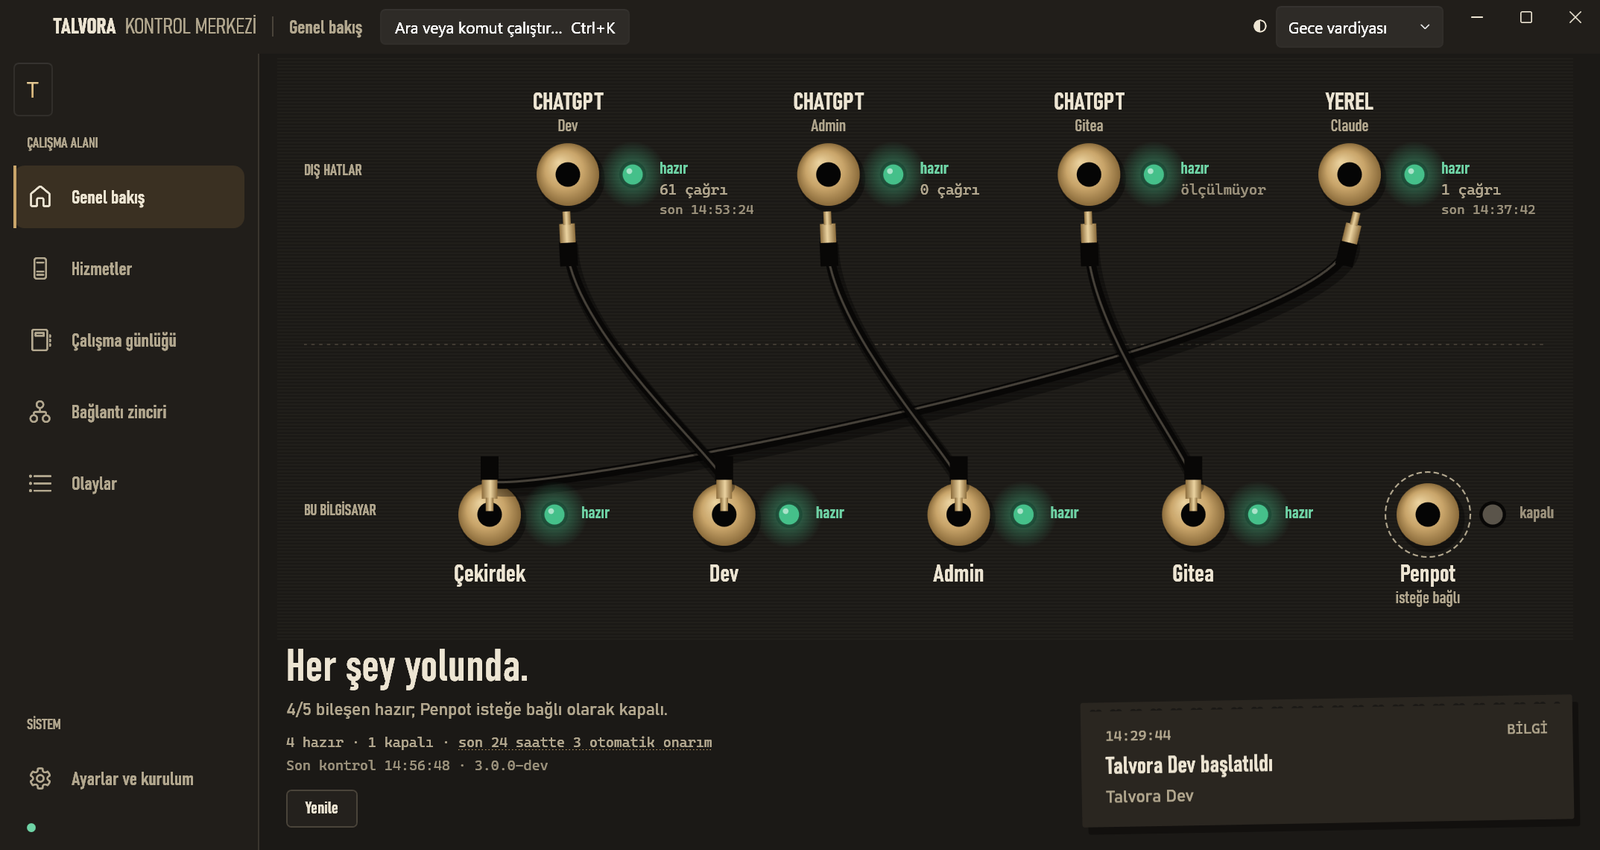
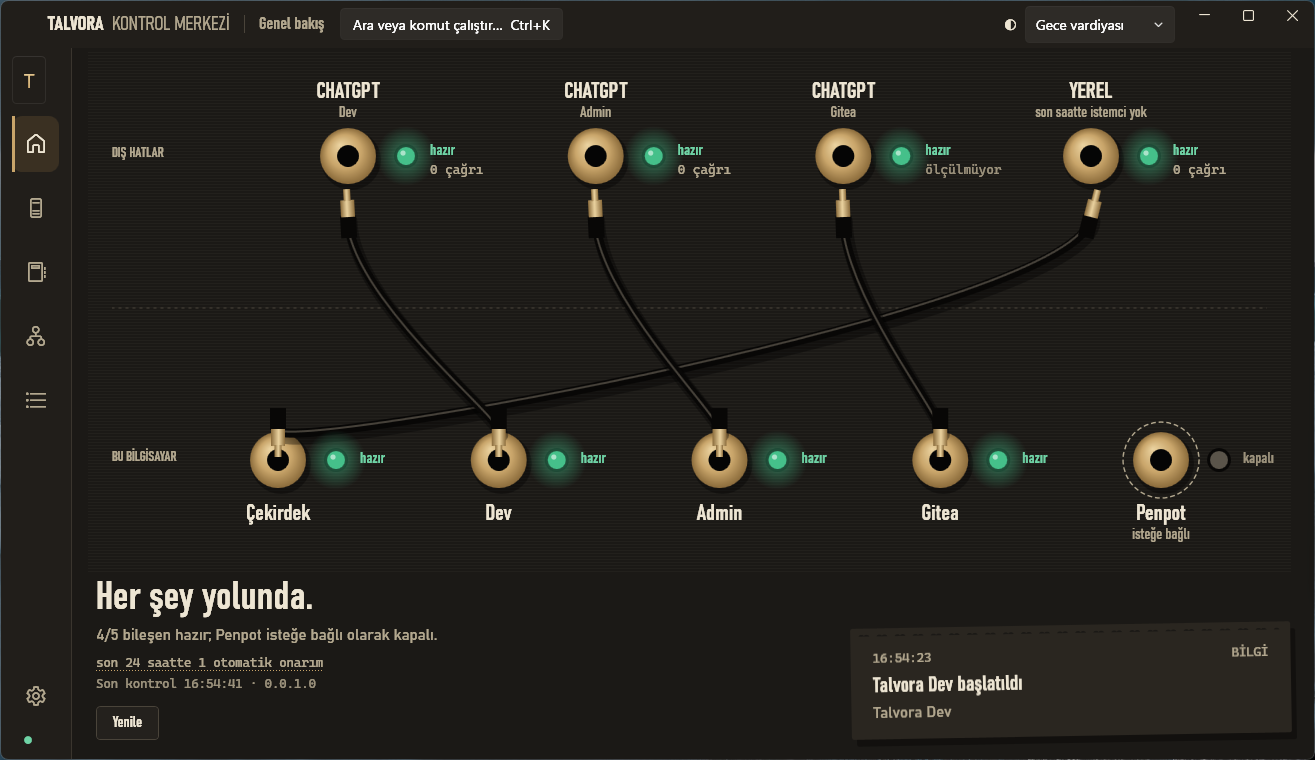
Talvora 0.0.1.0 sürüm notu ve kurulum anlatımı hazır
README artık kurulum dosyasından başlıyor; ekran görüntüleri yeni sürümün gerçek ekranlarından alındı.

Card: RELEASE

diff --git a/README.md b/README.md
@@ -30,20 +30,28 @@ Talvora arka planda bir Windows hizmeti olarak çalışır ve bu istemcilere MCP
 ## Bir ajan çalışırken
 
 <p align="center">
-  <img src="docs/media/kod-karti.png" alt="Masaüstündeki çalışma kartı: ajanın yaptığı değişikliğin amacı, yeri ve gerçek farkı, altında oturumun zaman şeridi ve teknik kayıt." width="480">
+  <img src="docs/media/kod-karti.png" alt="Masaüstündeki çalışma kartı: görev notu, ajanın yaptığı değişikliğin amacı, yeri ve gerçek farkı, önceki adımlar, altında oturumun zaman şeridi ve teknik kayıt." width="560">
 </p>
 
-Talvora'da en çok kullandığım parça bu kart. Üstte ajanın kendi cümlesiyle ne yaptığı ve nerede yaptığı yazar, ortada değişikliğin gerçek farkı durur, alttaki şerit de oturumun zamanını ölçtüğü kadarıyla gösterir. Oturum bitince her şey Kontrol Merkezi'ndeki Çalışma günlüğü'nde kalır; hangi projede kimin ne yaptığını sonradan da açıp bakabilirsin.
+Talvora'da en çok kullandığım parça bu kart. En üstte ajanın üzerinde çalıştığı görev, altında kendi cümlesiyle ne yaptığı ve nerede yaptığı yazar; ortada değişikliğin gerçek farkı durur, alttaki şerit de oturumun zamanını ölçtüğü kadarıyla gösterir. Oturum bitince her şey Kontrol Merkezi'ndeki Çalışma günlüğü'nde kalır; hangi projede kimin ne yaptığını, bir adım neden başarısız olduğunu sonradan da açıp bakabilirsin.
 
 <img src="docs/media/calisma-gunlugu.png" alt="Kontrol Merkezi, Çalışma günlüğü: solda oturumlar, sağda seçilen oturumun zaman çizelgesi ve kanıtları.">
 
 ## Kurulum
 
-İlk kararlı sürüm (0.0.1.0) hazırlanıyor. Çıktığında [Releases](https://github.com/bingoweb/Talvora-MCP/releases) sayfasında tek bir kurulum dosyası olacak; PowerShell 7 eksikse onu da kendisi kuracak. O güne kadar Talvora'yı kaynaktan kurabilirsin.
+En son sürümün kurulum dosyası [Releases](https://github.com/bingoweb/Talvora-MCP/releases/latest) sayfasında: şu an `Talvora-Kurulum-0.0.1.0.exe`. İndirip çalıştırman yeterli. Kurulum yönetici izni ister, Windows hizmetini, Kontrol Merkezi'ni ve Başlat menüsü kısayolunu yerleştirir; PowerShell 7 yoksa Microsoft'un resmi paketini indirip doğrulayarak onu da kurar. Gerekenler: Windows 10 ya da 11 (64 bit) ve yönetici yetkisi. Program dosyaları `C:\Program Files\Talvora` altına, kayıtlar ve ayarlar `C:\ProgramData\Talvora` altına gider; her şey yolundaysa `http://127.0.0.1:7676/healthz` adresi çalışan sürümü gösterir.
 
-Gerekenler: Windows 10 ya da 11 (64 bit), yönetici yetkisi, PowerShell 7, [global.json](global.json) dosyasındaki .NET SDK sürümü ve Chocolatey.
+Kurulum dosyası henüz imzalı değil. Windows bu yüzden ilk açılışta bir uyarı gösterebilir: **Ek bilgi**'ye, sonra **Yine de çalıştır**'a bas. İstersen önce dosyanın SHA-256 değerini aynı sayfadaki `SHA256SUMS.txt` ile karşılaştır:
 
-Yönetici olarak açtığın bir terminalde:
+```powershell
+Get-FileHash .\Talvora-Kurulum-0.0.1.0.exe -Algorithm SHA256
+```
+
+Kaldırmak için Windows Ayarları'ndaki yüklü uygulamalar listesinde Talvora'yı seçip kaldır. Kontrol Merkezi'nden sonradan kurduğun ek bileşenler (Gitea, Penpot, ChatGPT tüneli) bu kaldırmaya dahil değildir.
+
+### Kaynaktan kurmak
+
+Kodu değiştirmek istersen Talvora'yı kaynaktan da kurabilirsin. Bunun için ayrıca PowerShell 7, [global.json](global.json) dosyasındaki .NET SDK sürümü ve Chocolatey gerekir. Yönetici olarak açtığın bir terminalde:
 
 ```powershell
 git clone https://github.com/bingoweb/Talvora-MCP.git
@@ -51,7 +59,7 @@ cd Talvora-MCP
 .\TALVORA-KUR.cmd
 ```
 
-Kurulum hizmeti ve Kontrol Merkezi'ni yerleştirir, ardından kurulan sürümü uçtan uca dener. Program dosyaları `C:\Program Files\Talvora` altına, kayıtlar ve ayarlar `C:\ProgramData\Talvora` altına gider. Her şey yolundaysa `http://127.0.0.1:7676/healthz` adresi çalışan sürümü gösterir.
+Bu yol da hizmeti ve Kontrol Merkezi'ni yerleştirir, ardından kurulan sürümü uçtan uca dener.
 
 ## İstemcileri bağlamak
 
@@ -82,7 +90,7 @@ Ayrıntılar [SECURITY.md](SECURITY.md) dosyasında.
 
 ## Sürümler
 
-Sürüm numaraları `0.0.x.x` biçiminde. Üçüncü sayı yeni bir yetenek geldiğinde artar, dördüncü sayı yalnızca düzeltme, metin ya da güncelleme olduğunda. Sürümleri biriktirerek çıkarıyorum: kullanıcıya görünen değişiklikler doğrulandıkça bir sonraki denetimde yeni sürüm gelir. Güvenlik ya da çökme düzeltmeleri denetimi beklemez, hemen düzeltme sürümü olarak çıkar. Bir sürümü ancak bütün denetimler, GitHub'daki derleme ve o sürümün kendi kurulum dosyasıyla yapılan uçtan uca test geçtikten sonra yayımlıyorum. Her sürümün notu [Releases](https://github.com/bingoweb/Talvora-MCP/releases) sayfasında; Türkçe, sonunda kısa bir İngilizce özetle. İlk sürümle birlikte Kontrol Merkezi günde bir kez yeni sürüm olup olmadığına bakacak ve varsa sessizce haber verecek; kendiliğinden hiçbir şey kurmayacak.
+Sürüm numaraları `0.0.x.x` biçiminde. Üçüncü sayı yeni bir yetenek geldiğinde artar, dördüncü sayı yalnızca düzeltme, metin ya da güncelleme olduğunda. Sürümleri biriktirerek çıkarıyorum: kullanıcıya görünen değişiklikler doğrulandıkça bir sonraki denetimde yeni sürüm gelir. Güvenlik ya da çökme düzeltmeleri denetimi beklemez, hemen düzeltme sürümü olarak çıkar. Bir sürümü ancak bütün denetimler, GitHub'daki derleme ve o sürümün kendi kurulum dosyasıyla yapılan uçtan uca test geçtikten sonra yayımlıyorum. Her sürümün notu [Releases](https://github.com/bingoweb/Talvora-MCP/releases) sayfasında; Türkçe, sonunda kısa bir İngilizce özetle. Kontrol Merkezi günde bir kez yeni sürüm olup olmadığına bakar; varsa Ayarlar simgesinin köşesinde küçük bir noktayla haber verir, kendiliğinden hiçbir şey indirmez ya da kurmaz.
 
 ## Kaynak koda bakmak isteyenler için
 
@@ -105,4 +113,4 @@ Kendi kodum MIT lisansıyla açık: [LICENSE](LICENSE). Talvora'nın kullandığ
 
 ### In English
 
-Talvora is a local MCP server for Windows. It runs as a Windows service and gives AI clients such as ChatGPT, Claude Code and Codex a set of structured tools for real development work: transactional source edits, builds and tests that run as the signed-in user, Windows administration, Git, background jobs and dev servers. A desktop Control Center shows its health, and a small card shows what an agent is doing while it works. The interface is in Turkish. Talvora runs with LocalSystem rights and listens on 127.0.0.1 only, so install it on your own development machine. Stable installers will be published under [Releases](https://github.com/bingoweb/Talvora-MCP/releases): versions are `0.0.feature.fix`, released in batches once the changes are verified (security and crash fixes at once), each with Turkish notes and a short English summary. The code is MIT licensed.
+Talvora is a local MCP server for Windows. It runs as a Windows service and gives AI clients such as ChatGPT, Claude Code and Codex a set of structured tools for real development work: transactional source edits, builds and tests that run as the signed-in user, Windows administration, Git, background jobs and dev servers. A desktop Control Center shows its health, and a small card shows what an agent is doing while it works. The interface is in Turkish. Talvora runs with LocalSystem rights and listens on 127.0.0.1 only, so install it on your own development machine. Download the installer from [Releases](https://github.com/bingoweb/Talvora-MCP/releases/latest) (currently `Talvora-Kurulum-0.0.1.0.exe`); it is not signed yet, so Windows SmartScreen may ask you to confirm. Versions are `0.0.feature.fix`, released in batches once the changes are verified (security and crash fixes at once), each with Turkish notes and a short English summary; the Control Center checks for a new release once a day and never installs anything by itself. The code is MIT licensed.

diff --git a/docs/codex/STATUS.md b/docs/codex/STATUS.md
@@ -56,6 +56,8 @@ Legend: `[ ]` todo · `[x]` done · `[~]` done but waiting for user evidence · 
 
 ## Log
 
+- 2026-11-14 — Claude, release 0.0.1.0 (user: "Evet, hazırla"; 0.0.1.0 prerequisites met: RL1–RL5 with RL3 closed by the user's decision, D47, D48, D49, WL3, fresh README screenshots). README: the install section now starts from the installer on Releases (`Talvora-Kurulum-0.0.1.0.exe`, the SmartScreen step for the unsigned file, the SHA-256 check against `SHA256SUMS.txt`, uninstall from the installed apps list, extra components not removed) with the source install as a second path; the update-check sentence is in the present tense; the English summary follows; the first sentence (and so the GitHub description) is unchanged. Screenshots retaken from the real screens of the installed 0.0.1.0 build of a8ae21e (identical product code), with real demo sessions Claude ran through Talvora in local folders under `C:\Users\tayla\Talvora-Demo` (never pushed): Genel bakış in Gece vardiyası and Gündüz, the desktop card of the fatura-hesabi session (task note, purpose, place, real diff, the red test step before it), Çalışma günlüğü in Gündüz (three demo sessions, one failed; fatura-hesabi selected: red test, fix, green test, commit). Release notes `docs/releases/0.0.1.0.md`: Taylan's voice, Turkish, "Yeni" and "Bilinen sorunlar" (unsigned installer), short English summary. Proof before the tag: signed-in Full gate of this commit, its CI, and its own `-ReleaseVersion 0.0.1.0` installer with the full installed smoke.
+  Seen while preparing (for the next audit's cards): (1) two of the last three deploys stayed "Kurulum devredildi · doğrulama bekleniyor" in Çalışma günlüğü instead of "Yeni sürüm çalışıyor" (a8ae21e dev deploy at 13:33 UTC and the 0.0.1.0 deploy with `-InstallerPath` at 13:53 UTC; 6b1f0ec at 13:19 UTC was finished correctly); (2) Çalışma günlüğü's "Kanıtlar" prints the commit fact twice, once with "  //  Komut: git commit"; (3) Python test runs (`python -m unittest`, `pytest`) are titled by program name, not as tests ("unittest bitti"); (4) OLASI: after a programmatic MoveWindow to 1600×900 the Control Center's height stayed at 1460 for every later size (not reproduced with a user drag; restored by restarting the tray with the saved placement).
 - 2026-11-14 — [C] D81, executor Claude (after WL3): on the installed 6b1f0ec Çalışma günlüğü's list card grew as wide as a long task note ("D76 — Kontrol Merkezi canlı testinde pencerenin görünür kalmasını sağla") and the list showed a horizontal scroll bar, because the ListBox allowed sideways scrolling, so WL3's one-line ellipsis never applied. The list now sets `ScrollViewer.HorizontalScrollBarVisibility="Disabled"`: cards take the list's width and the note ends with "…" (its tooltip shows it whole). Red: the WL3 smoke with a note as long as the real one ("D81: the history list scrolls sideways (755 > 432)"); green after; captures in both themes. Signed-in Changed 13/0 and Full 73/0 `Hepsi geçti.` (Claude's worktree). Context7 `/dotnet/docs-desktop` (HorizontalScrollBarVisibility on ListBox, Disabled rather than Auto; ledger 2026-11-14). D47 and WL3 visual checks closed on the installed 6b1f0ec with real data: Genel bakış without the repeated counts line; Çalışma günlüğü cards with the outcome dot, "Son adım: …" under the task note and no "0 dosya değişti"; Olaylar "Kontrol Merkezi hazır" and "Servis ve güvenli tüneli birlikte başlatıldı."; Hizmetler ready services in Turkish order with Penpot last and the core's role "Yerel servis". 6b1f0ec: metadata and full installed smokes GREEN, CI 43599091942 green (5 dk 10 sn).
   Self-review — Cosmetics: the list keeps its width; long notes end in an ellipsis; no scroll bar under the list.
   Self-review — Usability: every card is readable without scrolling sideways; the full note is one hover away.

diff --git a/docs/releases/0.0.1.0.md b/docs/releases/0.0.1.0.md
@@ -1,0 +1,17 @@
+Merhaba, ben Taylan. Bu, Talvora'nın ilk kararlı sürümü. Artık kaynak kodu indirip derlemene gerek yok: tek bir kurulum dosyası yetiyor.
+
+## Yeni
+
+- **Tek dosyayla kurulum.** `Talvora-Kurulum-0.0.1.0.exe` Windows hizmetini, Kontrol Merkezi'ni ve Başlat menüsü kısayolunu yerleştirir. Bilgisayarında PowerShell 7 yoksa Microsoft'un resmi paketini indirir, doğrular ve onu da kurar. Kaldırmak istersen Windows'un yüklü uygulamalar listesinde Talvora'yı bulman yeterli.
+- **Yapay zekâ ajanları için gerçek bir çalışma masası.** 250 araçla kodu okuyup güvenle değiştirme, senin kullanıcı hesabınla derleme ve test, Git, Windows hizmetleri, kayıt defteri, uzun süren işler ve geliştirme sunucuları.
+- **Kontrol Merkezi.** Hangi istemcinin bağlı olduğunu ve bu bilgisayardaki bileşenlerin durumunu gerçek ölçümlerle gösterir. Bir katman bozulursa önce en küçük onarımı dener, bileşen gerçekten hazır olmadan "düzeldi" demez.
+- **Çalışma kartı ve Çalışma günlüğü.** Bir ajan çalışırken masaüstünün köşesindeki kart, o adımın amacını, yerini ve gerçek farkını gösterir. Oturum bitince her şey görev notuyla birlikte Çalışma günlüğü'nde kalır; başarısız bir adımın nedenini ve sonraki adımı da orada görürsün.
+- **Sessiz sürüm haberi.** Kontrol Merkezi günde bir kez yeni sürüm olup olmadığına bakar. Varsa Ayarlar simgesinin köşesinde küçük bir noktayla haber verir; kendiliğinden hiçbir şey indirmez ya da kurmaz.
+
+## Bilinen sorunlar
+
+- Kurulum dosyası henüz imzalı değil, bu yüzden Windows ilk açılışta bir uyarı gösterebilir. **Ek bilgi**'ye, sonra **Yine de çalıştır**'a basman yeterli. İstersen önce dosyanın SHA-256 değerini bu sayfadaki `SHA256SUMS.txt` ile karşılaştırabilirsin.
+
+---
+
+**In English:** This is Talvora's first stable release. A single installer, `Talvora-Kurulum-0.0.1.0.exe`, sets up the Windows service, the Control Center and a Start menu shortcut, and installs PowerShell 7 from Microsoft's official package when it is missing. Talvora gives AI clients 250 tools for real development work on Windows, shows its health in the Control Center and what an agent is doing on a small desktop card, and checks for new releases once a day without installing anything by itself. The installer is not signed yet, so Windows SmartScreen may warn on first run: choose "More info", then "Run anyway", and compare the file with `SHA256SUMS.txt`.
